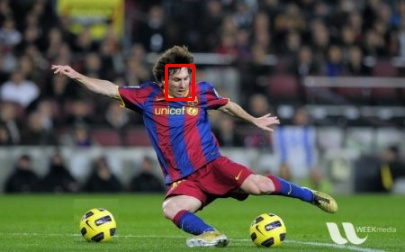
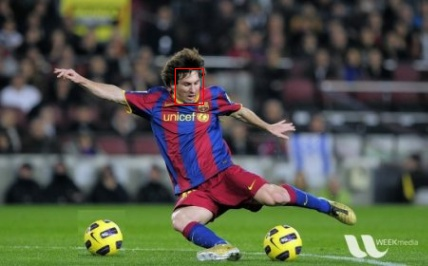
Update

diff --git a/Tracking/tracking.py b/Tracking/tracking.py
@@ -1,94 +1,71 @@
 import os
-from glob import glob
 import numpy as np
 from matplotlib import pyplot as plt
 import cv2
-from copy import deepcopy
-from template_matching import *
-from utils import *
+from template_matching import match_template
+from utils import imread, imshow, imsave, load_tracking_data, draw_rect
 
-def track_single(prev_img, prev_RoI, next_img, search_radius):
+def track(images_files, RoI, search_radius=20, show=False, save=None):
+    """
+    Args:
+        images_files: list of paths to images
+        RoI: [x, y, w, h] array
+            where (x,y) is the top-left coordinate of the RoI
+                  w, h are width and height of the RoI 
+    """
+    print("Processing frame {}".format(1))
+    frame0 = imread(images_files[0])
+    postprocess(frame0, RoI, show, save, os.path.split(images_files[0])[1])
+    RoIs = [RoI]
+    for i in range(1, len(images_files)):
+        print("Processing frame {}".format(i+1))
+        frame1 = imread(images_files[i])
+        matching_map, RoI = track_single(frame0, RoI, frame1, search_radius)
+        RoIs.append(RoI)
+        postprocess(frame1, RoI, show, save, os.path.split(images_files[i])[1])
+    return RoIs
+
+def track_single(prev_img, prev_RoI, next_img, search_radius=None):
     x1, y1, w, h = prev_RoI
     template = prev_img[y1:y1+h, x1:x1+w]
-    dy, dx = max(0,y1-search_radius), max(0,x1-search_radius)
+    if search_radius is None:
+        search_radius = np.inf
+    dy, dx = max(0, y1-search_radius), max(0, x1-search_radius)
     part = next_img[dy:y1+h+search_radius, dx:x1+w+search_radius]
-    matching_map = match_template(part, template, "CC", norm_patches=True)[0]
+    matching_map = match_template(part, template, "SSD", norm_patches=False)
     _, _, _, top_left = cv2.minMaxLoc(matching_map)
     x1, y1 = top_left
     x1, y1 = x1 + dx, y1 + dy
     next_RoI = np.array([x1, y1, w, h])
     return matching_map, next_RoI
-
-def track(frames, RoI, search_radius=20, show=False, show2=False):
-    """
-    Args:
-        frames: list of images
-        RoI: [x, y, w, h] array
-            where (x,y) is the top-left coordinate of the RoI
-                  w, h are width and height of the RoI 
-    """
+    
+def postprocess(frame, roi_coordinates, show, save, filename):
     if show:
-        x1, y1, w, h = RoI
-        imshow(frames[0][y1:y1+h, x1:x1+w], sub=(1,2,1))
-        imshow(draw_rect(frames[0], RoI), sub=(1,2,2))
+        x1, y1, w, h = roi_coordinates
+        imshow(frame[y1:y1+h, x1:x1+w], sub=(1,2,1))
+        imshow(draw_rect(frame, roi_coordinates), sub=(1,2,2))
         plt.show()
-    if show2:
-        cv2.imshow("Tracking", cv2.cvtColor(draw_rect(frames[0], RoI), cv2.COLOR_RGB2BGR))
-        cv2.waitKey(00) == ord('k')
-    RoIs = [RoI]
-    for i in range(1,len(frames)):
-        print("Processing frame {}".format(i))
-        frame = frames[i]
-        matching_map, RoI = track_single(frames[i-1], RoI, frames[i], search_radius)
-        RoIs.append(RoI)
-        if show:
-            imshow(matching_map, sub=(1,2,1))
-            imshow(draw_rect(frame, RoI), sub=(1,2,2))
-            plt.show()
-    return RoIs
+    if save is not None:
+        imsave(draw_rect(frame, roi_coordinates), path='res/tracking/{}/{}'.format(save, filename))
 
-def draw_rect(frames, rects):
-    frames_with_rects = deepcopy(frames)
-    if not isinstance(rects, list):
-        x1, y1, w, h = rects
-        x2, y2 = x1 + w, y1 + h
-        return cv2.rectangle(frames_with_rects, (x1, y1), (x2, y2), (255,0,0))
-    else:
-        for frame, rect in zip(frames_with_rects, rects):
-            x1, y1, w, h = rect
-            x2, y2 = x1 + w, y1 + h
-            cv2.rectangle(frame, (x1, y1), (x2, y2), (255,0,0))
-        return frames_with_rects
-
-def showframes(frames, title="video"):
+def showframes(frames):
     for i in range(len(frames)):
-        cv2.imshow(title, cv2.cvtColor(frames[i], cv2.COLOR_RGB2BGR))
+        cv2.imshow("Tracking", cv2.cvtColor(frames[i], cv2.COLOR_RGB2BGR))
         cv2.waitKey(00) == ord('k')
         if cv2.waitKey(1) == ord('q'):
             break
 
-def load_data(datadirpath):
-    images_files = sorted(glob(os.path.join(os.path.join(datadirpath, "img", "*.jpg"))))
-    gt_rect_file = os.path.join(datadirpath, "groundtruth_rect.txt")
-    images = np.stack([imread(imgfile) for imgfile in images_files], 0)
-    with open(gt_rect_file, "r") as f:
-        text = f.read()
-        try:
-            gt_rects = [np.array([int(num) for num in s.split(",")]) for s in text.split("\n") if s != '']
-        except:
-            gt_rects = [np.array([int(num) for num in s.split("\t")]) for s in text.split("\n") if s != '']
-    # showframes(draw_rect(images, gt_rects))
-    return images, gt_rects
+def main(args):
+    images_files, gt_rects = load_tracking_data("data/tracking/{}".format(args.dirname))
+    roi = gt_rects[0] if args.roi == "" else args.roi
+    RoIs = track(images_files, roi, search_radius=args.search_radius, save=args.dirname)
+    # showframes(draw_rect(images, RoIs))
 
 if __name__ == "__main__":
     import argparse
     parser = argparse.ArgumentParser()
-    parser.add_argument("-p", "--dirPath", help="", type=str, default="data/Walking")
-    parser.add_argument("-r", "--RoI", help="", type=str, default="")
-    parser.add_argument("-s", "--searchRadius", help="", type=int, default=20)
+    parser.add_argument("--dirname", type=str, default="Jump", help="path to image and template (default: Jump)")
+    parser.add_argument("--roi", type=str, default="", help="roi in (x, y, w, h) format")
+    parser.add_argument("--search-radius", type=int, default=20, help="(default: 20)")
     args = parser.parse_args()
-
-    images, gt_rects = load_data(args.dirPath)    
-    RoI = gt_rects[0] if args.RoI == "" else args.RoI
-    RoIs = track(images, RoI, search_radius=args.searchRadius, show=False)
-    showframes(draw_rect(images, RoIs))
+    main(args)
